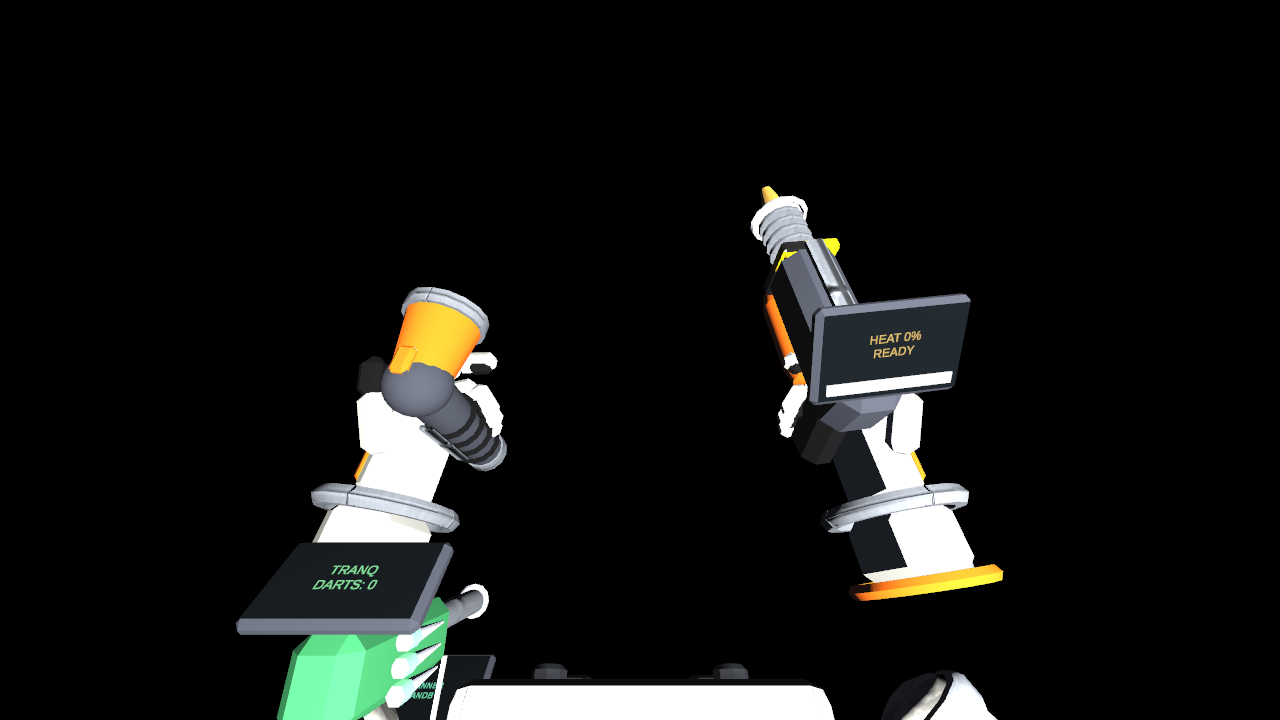
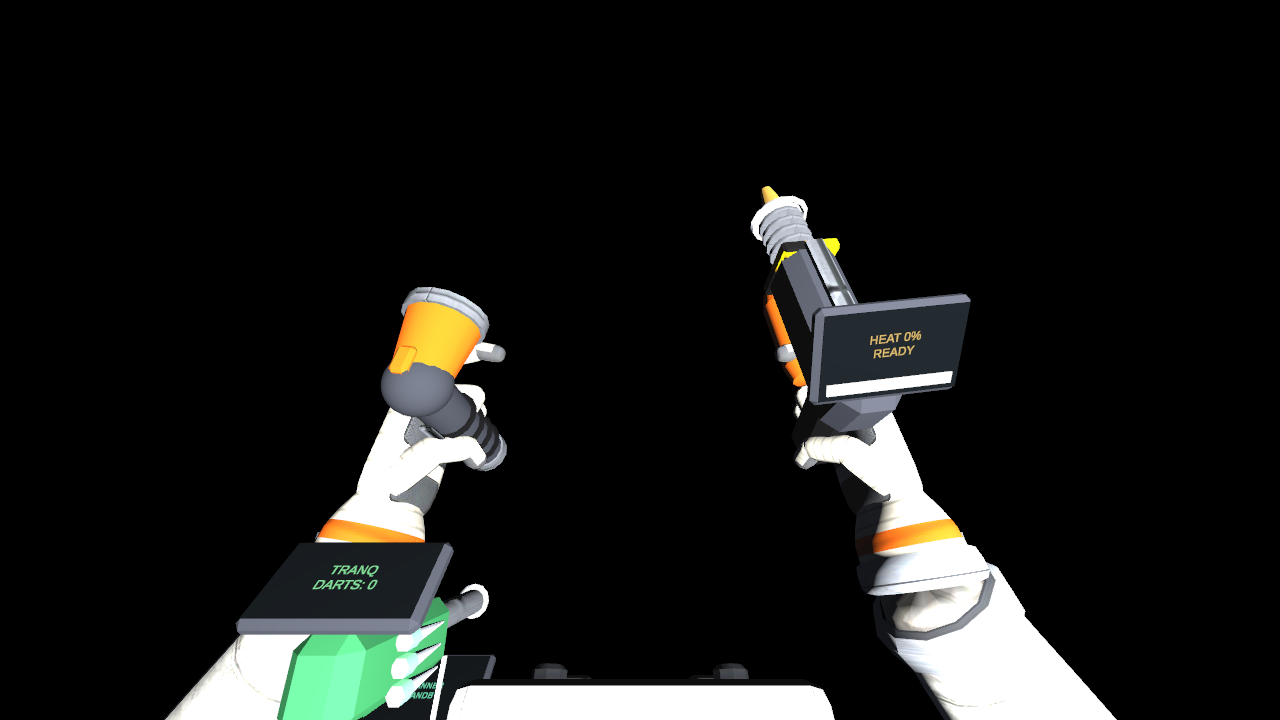
Gloves close on held objects (per-finger fit at grab, firm fist on tools); glove previews 37-39, re-rendered 12/15/16/17 (EditMode 247/247, PlayMode 96/96)

diff --git a/Assets/TrashAstronauts/Scripts/Runtime/Player/GloveVisual.cs b/Assets/TrashAstronauts/Scripts/Runtime/Player/GloveVisual.cs
@@ -1,4 +1,5 @@
 using UnityEngine;
+using UnityEngine.XR.Interaction.Toolkit;
 
 namespace TrashAstronauts.Player
 {
@@ -6,7 +7,9 @@ namespace TrashAstronauts.Player
     /// Poses the glove's fingers from the hand's inputs, so the player sees their own grab and trigger state:
     ///   - idle: a relaxed hand, fingers slightly curled, thumb out;
     ///   - trigger: curls the index finger;
-    ///   - grip (or holding something): curls the middle, ring and little fingers and closes the thumb.
+    ///   - grip: curls the middle, ring and little fingers and closes the thumb;
+    ///   - holding something: each finger closes until it meets the object (fitted once, just after the grab,
+    ///     from the object's colliders); a tool gets a firm fist with the index on its trigger.
     /// Each finger segment is a rigid part pivoting at its knuckle and curls about its own local X, which swings
     /// it toward the palm. Curls blend smoothly and are clamped per joint. Hand tracking drives the same inputs
     /// (HandRig.GripOverride / TriggerOverride), so a tracked hand animates the glove too.
@@ -48,30 +51,186 @@ namespace TrashAstronauts.Player
         public float curlDegrees = 68f;
         public float thumbDegrees = 40f;
 
+        [Header("Holding")]
+        [Tooltip("Fingers stop this far from a held object's surface (half the glove's finger thickness), metres.")]
+        public float graspGap = 0.007f;
+        [Tooltip("Steps tried, open to closed, when fitting a finger to a held object.")]
+        public int graspSteps = 20;
+        [Tooltip("Seconds after the grab before the fit is measured, so the object has settled into the hand.")]
+        public float graspDelay = 0.08f;
+
         [Header("Feel")]
         public float smoothing = 18f;
 
-        float m_Index;
-        float m_Grip;
+        // Smoothed closing amount per finger: index, middle, ring, little, thumb (0 = relaxed, 1 = closed).
+        readonly float[] m_Amount = new float[5];
+        readonly float[] m_Target = new float[5];
+        // Fitted closing amount per finger for the held object (1 = a full fist).
+        readonly float[] m_Hold = { 1f, 1f, 1f, 1f, 1f };
+        bool m_HoldIsTool;
+        bool m_HoldFitted = true;
+        Component m_HoldTarget;
+        float m_FitAt;
+        bool m_Listening;
 
         /// <summary>The smoothed index (trigger) curl, 0 = relaxed, 1 = closed.</summary>
-        public float IndexAmount => m_Index;
-        /// <summary>The smoothed grip curl, 0 = relaxed, 1 = closed.</summary>
-        public float GripAmount => m_Grip;
+        public float IndexAmount => m_Amount[0];
+        /// <summary>The smoothed grip curl (middle finger), 0 = relaxed, 1 = closed.</summary>
+        public float GripAmount => m_Amount[1];
+        /// <summary>How far a finger (0..3 index..little, 4 thumb) closes on the object being held, as fitted at the grab.</summary>
+        public float HoldAmount(int finger) => m_Hold[finger];
+        /// <summary>True once the fit for the current held object has been measured.</summary>
+        public bool HoldFitted => m_HoldFitted;
         /// <summary>True when the Blender glove (not the stand-in) is driven.</summary>
         public bool IsModelled => fingerJoints != null && fingerJoints.Length == 12 && fingerBase != null && fingerBase.Length == 12;
+
+        void OnEnable()
+        {
+            if (hand != null && hand.interactor != null && !m_Listening)
+            {
+                hand.interactor.selectEntered.AddListener(OnGrabbed);
+                m_Listening = true;
+            }
+        }
+
+        void OnDisable()
+        {
+            if (m_Listening && hand != null && hand.interactor != null) hand.interactor.selectEntered.RemoveListener(OnGrabbed);
+            m_Listening = false;
+        }
+
+        void OnGrabbed(SelectEnterEventArgs args)
+        {
+            var target = args.interactableObject as Component;
+            m_HoldTarget = target;
+            m_HoldIsTool = target != null && target.GetComponentInParent<Tools.SuitTool>() != null;
+            for (int i = 0; i < m_Hold.Length; i++) m_Hold[i] = 1f;
+            m_HoldFitted = m_HoldIsTool; // a tool is a firm fist straight away; anything else is measured shortly
+            m_FitAt = Time.unscaledTime + graspDelay;
+        }
 
         void LateUpdate()
         {
             if (hand == null) return;
+            if (!m_Listening) OnEnable(); // hand assigned after enable (built at runtime)
             bool holding = hand.IsHolding;
-            float index = Mathf.Clamp01(Mathf.Max(hand.Trigger, holding ? holdIndex : 0f));
-            float grip = Mathf.Clamp01(Mathf.Max(hand.Grip, holding ? 1f : 0f));
-            float t = 1f - Mathf.Exp(-smoothing * Time.unscaledDeltaTime);
-            m_Index = Mathf.Lerp(m_Index, index, t);
-            m_Grip = Mathf.Lerp(m_Grip, grip, t);
+            if (holding && !m_HoldFitted && Time.unscaledTime >= m_FitAt)
+            {
+                FitTo(m_HoldTarget != null ? m_HoldTarget.GetComponentsInChildren<Collider>() : null, false);
+            }
 
-            Apply(m_Index, m_Grip);
+            float trigger = Mathf.Clamp01(hand.Trigger);
+            float grip = Mathf.Clamp01(hand.Grip);
+            if (holding && m_HoldIsTool)
+            {
+                // Firm fist round the handle, index free on the trigger.
+                m_Target[0] = Mathf.Max(trigger, holdIndex);
+                for (int f = 1; f < 5; f++) m_Target[f] = 1f;
+            }
+            else if (holding)
+            {
+                // Each finger closes until it meets the object (before the fit is measured: half closed).
+                for (int f = 0; f < 5; f++) m_Target[f] = m_HoldFitted ? m_Hold[f] : 0.5f * m_Hold[f];
+            }
+            else
+            {
+                m_Target[0] = trigger;
+                for (int f = 1; f < 5; f++) m_Target[f] = grip;
+            }
+
+            float t = 1f - Mathf.Exp(-smoothing * Time.unscaledDeltaTime);
+            for (int f = 0; f < 5; f++) m_Amount[f] = Mathf.Lerp(m_Amount[f], m_Target[f], t);
+            if (IsModelled) ApplyFingers(m_Amount);
+            else Apply(m_Amount[0], m_Amount[1]);
+        }
+
+        /// <summary>
+        /// Measures, once, how far each finger can close on a held object: the finger is swung shut step by step
+        /// (open to closed) until one of its segments comes within <see cref="graspGap"/> of one of the colliders.
+        /// A tool (firmFist) is held in a full fist instead. Leaves the fingers where they were.
+        /// </summary>
+        public void FitTo(Collider[] colliders, bool firmFist)
+        {
+            m_HoldFitted = true;
+            m_HoldIsTool = firmFist;
+            for (int i = 0; i < m_Hold.Length; i++) m_Hold[i] = 1f;
+            if (firmFist || !IsModelled || colliders == null || colliders.Length == 0) return;
+
+            var saved = new Quaternion[15];
+            for (int i = 0; i < 12; i++) saved[i] = fingerJoints[i].localRotation;
+            for (int k = 0; k < 3 && k < thumbJoints.Length; k++) saved[12 + k] = thumbJoints[k].localRotation;
+            int steps = Mathf.Max(2, graspSteps);
+            for (int f = 0; f < 5; f++)
+            {
+                float fitted = 1f;
+                for (int s = 0; s <= steps; s++)
+                {
+                    float a = (float)s / steps;
+                    PoseFinger(f, a);
+                    if (FingerTouches(f, colliders))
+                    {
+                        fitted = Mathf.Max(0f, (s - 1f) / steps);
+                        break;
+                    }
+                }
+                m_Hold[f] = fitted;
+            }
+            for (int i = 0; i < 12; i++) fingerJoints[i].localRotation = saved[i];
+            for (int k = 0; k < 3 && k < thumbJoints.Length; k++) thumbJoints[k].localRotation = saved[12 + k];
+        }
+
+        void PoseFinger(int finger, float amount)
+        {
+            for (int k = 0; k < 3; k++)
+            {
+                if (finger < 4)
+                {
+                    int i = finger * 3 + k;
+                    fingerJoints[i].localRotation = fingerBase[i] * Quaternion.Euler(JointCurl(finger, k, amount, amount), 0f, 0f);
+                }
+                else if (k < thumbJoints.Length)
+                {
+                    thumbJoints[k].localRotation = thumbBase[k] * Quaternion.Euler(JointCurl(4, k, amount, amount), 0f, 0f);
+                }
+            }
+        }
+
+        Transform Joint(int finger, int segment) => finger < 4 ? fingerJoints[finger * 3 + segment] : thumbJoints[segment];
+
+        bool FingerTouches(int finger, Collider[] colliders)
+        {
+            for (int k = 0; k < 3; k++)
+            {
+                Transform joint = Joint(finger, k);
+                float length = k < 2 ? Joint(finger, k + 1).localPosition.magnitude : SegmentLength(joint);
+                // The pad side of the segment (its -Y) at its middle and its end.
+                for (int p = 1; p <= 2; p++)
+                {
+                    Vector3 probe = joint.TransformPoint(new Vector3(0f, -0.004f, length * 0.5f * p));
+                    for (int c = 0; c < colliders.Length; c++)
+                    {
+                        var col = colliders[c];
+                        if (col == null || !col.enabled || col.isTrigger) continue;
+                        bool exact = !(col is MeshCollider mesh) || mesh.convex;
+                        Vector3 nearest = exact ? col.ClosestPoint(probe) : col.bounds.ClosestPoint(probe);
+                        if ((nearest - probe).sqrMagnitude <= graspGap * graspGap) return true;
+                    }
+                }
+            }
+            return false;
+        }
+
+        static float SegmentLength(Transform joint)
+        {
+            var filter = joint.GetComponent<MeshFilter>();
+            return filter != null && filter.sharedMesh != null ? Mathf.Max(0.01f, filter.sharedMesh.bounds.max.z - 0.004f) : 0.02f;
+        }
+
+        /// <summary>Poses each finger by its own closing amount: index, middle, ring, little, thumb.</summary>
+        public void ApplyFingers(float[] amounts)
+        {
+            if (!IsModelled || amounts == null || amounts.Length < 5) return;
+            for (int f = 0; f < 5; f++) PoseFinger(f, amounts[f]);
         }
 
         /// <summary>The curl (degrees about local X) of one joint for the given amounts. finger 0..3 = index..little, 4 = thumb; segment 0..2.</summary>

diff --git a/Assets/TrashAstronauts/Tests/PlayMode/GlovePlayTests.cs b/Assets/TrashAstronauts/Tests/PlayMode/GlovePlayTests.cs
@@ -184,6 +184,66 @@ namespace TrashAstronauts.Tests
                 Assert.AreEqual(Glove(hand).restCurl[0], FingerCurl(Glove(hand), 2, 0), 1f);
         }
 
+        /// <summary>A box in the glove's own space (palm -Y, fingers +Z), with a collider, for the fingers to close on.</summary>
+        static BoxCollider BoxInGlove(GloveVisual glove, Vector3 centre, Vector3 size)
+        {
+            var box = new GameObject("Held Box").AddComponent<BoxCollider>();
+            box.transform.SetPositionAndRotation(glove.transform.TransformPoint(centre), glove.transform.rotation);
+            box.size = size;
+            return box;
+        }
+
+        static float NearestFingerGap(GloveVisual glove, int finger, Collider col)
+        {
+            float best = float.MaxValue;
+            for (int k = 0; k < 3; k++)
+            {
+                Transform joint = finger < 4 ? glove.fingerJoints[finger * 3 + k] : glove.thumbJoints[k];
+                for (float z = 0f; z <= 0.03f; z += 0.005f)
+                {
+                    Vector3 p = joint.TransformPoint(new Vector3(0f, -0.004f, z));
+                    best = Mathf.Min(best, Vector3.Distance(col.ClosestPoint(p), p));
+                }
+            }
+            return best;
+        }
+
+        [UnityTest]
+        public IEnumerator Holding_FingersCloseUntilTheyMeetTheObject_AndMakeAFirmFistOnATool()
+        {
+            yield return Drive(0f, 0f);
+            var glove = Glove(m_Player.rightHand);
+
+            // A big block against the palm: the fingers stop on it, part closed.
+            var big = BoxInGlove(glove, new Vector3(0f, -0.1f, -0.04f), new Vector3(0.1f, 0.05f, 0.14f));
+            Physics.SyncTransforms();
+            glove.FitTo(new Collider[] { big }, false);
+            float[] bigHold = new float[5];
+            for (int f = 0; f < 5; f++) bigHold[f] = glove.HoldAmount(f);
+            string held = string.Join(", ", bigHold);
+            for (int f = 0; f < 4; f++)
+            {
+                Assert.Greater(bigHold[f], 0f, "Finger " + f + " should close some way onto the block (" + held + ").");
+                Assert.Less(bigHold[f], 0.95f, "Finger " + f + " should stop on the block, not close into a fist through it.");
+            }
+            glove.ApplyFingers(bigHold);
+            for (int f = 0; f < 4; f++)
+                Assert.Less(NearestFingerGap(glove, f, big), 0.02f, "Finger " + f + " should end up touching the block.");
+            Object.Destroy(big.gameObject);
+
+            // A thin rod across the fingers closes them further than the block does.
+            var rod = BoxInGlove(glove, new Vector3(0f, -0.08f, -0.035f), new Vector3(0.1f, 0.02f, 0.02f));
+            Physics.SyncTransforms();
+            glove.FitTo(new Collider[] { rod }, false);
+            Assert.Greater(glove.HoldAmount(1), bigHold[1] + 0.05f, "A thin handle lets the fingers close further.");
+            Object.Destroy(rod.gameObject);
+
+            // A tool: a firm fist, whatever its shape.
+            glove.FitTo(null, true);
+            for (int f = 0; f < 5; f++) Assert.AreEqual(1f, glove.HoldAmount(f));
+            yield return null;
+        }
+
         [UnityTest]
         public IEnumerator GrabPoint_StaysAtThePalm_OfTheModelledGlove()
         {

diff --git a/Assets/TrashAstronauts/Scripts/Editor/PreviewRenderer.cs b/Assets/TrashAstronauts/Scripts/Editor/PreviewRenderer.cs
@@ -108,9 +108,24 @@ namespace TrashAstronauts.EditorTools
                 handLight.range = 5f;
                 handLight.intensity = 5f;
                 foreach (var l in rig.GetComponentsInChildren<Light>(true)) if (l != handLight) l.enabled = false;
+                // The hands moved: bring the suit's arms onto the glove cuffs again.
+                var ownAvatar = rig.GetComponentInChildren<TrashAstronauts.Player.PlayerAvatar>(true);
+                if (ownAvatar != null)
+                {
+                    ownAvatar.SnapToHead();
+                    ownAvatar.Pose(0f);
+                }
                 Shot("15_hands_player_view", new Vector3(0f, 1.55f, -49.9f), new Vector3(0f, 1.2f, -49.6f));
                 Shot("16_right_hand_side", new Vector3(0.55f, 1.27f, -49.62f), new Vector3(0.16f, 1.25f, -49.64f));
                 Shot("17_left_hand_side", new Vector3(-0.55f, 1.27f, -49.62f), new Vector3(-0.16f, 1.25f, -49.64f));
+                // Close-ups of the gloves with nothing in them: open (back of the right, palm of the left), then a fist.
+                foreach (var tool in tools) tool.gameObject.SetActive(false);
+                var gloves = rig.GetComponentsInChildren<TrashAstronauts.Player.GloveVisual>(true);
+                foreach (var glove in gloves) glove.Apply(0f, 0f);
+                Shot("37_glove_open_back", new Vector3(0.42f, 1.34f, -49.42f), new Vector3(0.16f, 1.24f, -49.68f), false, 40f);
+                Shot("38_glove_open_palm", new Vector3(0.14f, 1.32f, -49.4f), new Vector3(-0.16f, 1.24f, -49.68f), false, 40f);
+                foreach (var glove in gloves) glove.Apply(1f, 1f);
+                Shot("39_glove_fist", new Vector3(0.42f, 1.34f, -49.42f), new Vector3(0.16f, 1.24f, -49.68f), false, 40f);
                 Object.DestroyImmediate(rig);
             }
 
